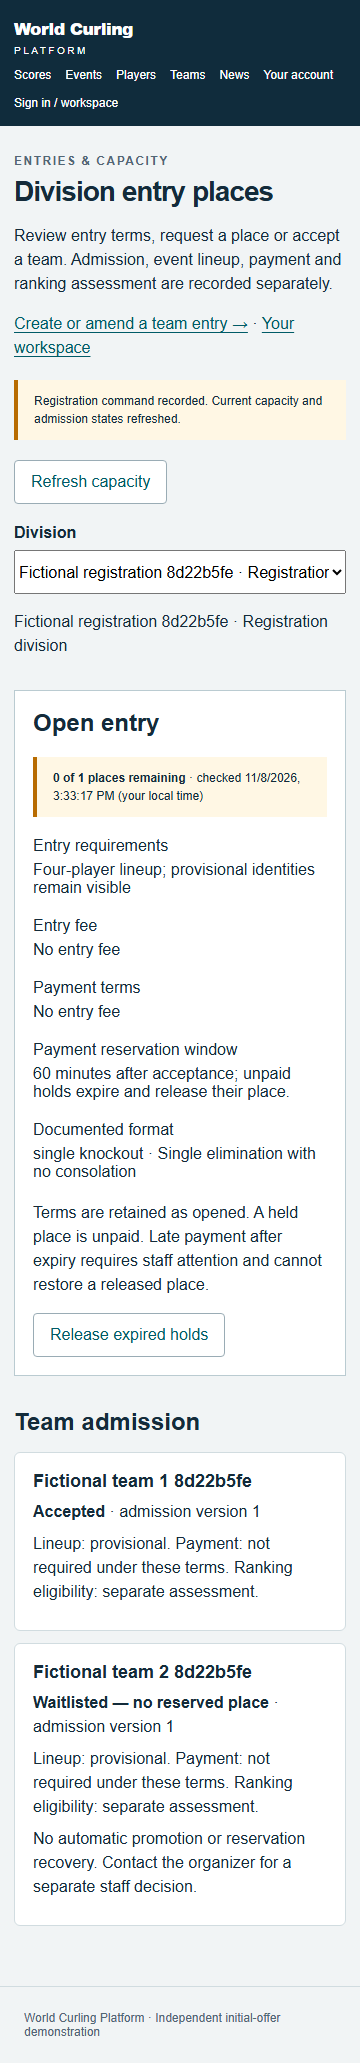
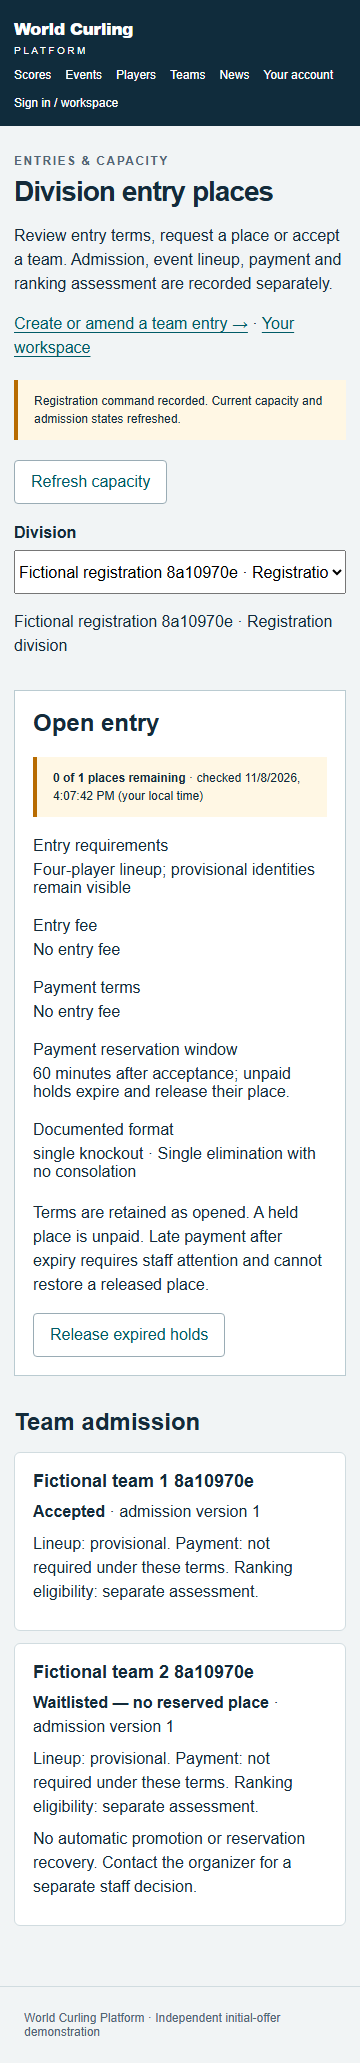
verify(WCP-009): finish accepted draw union with scoped evidence

diff --git a/tests/browser/registration-draw.spec.ts b/tests/browser/registration-draw.spec.ts
@@ -159,6 +159,12 @@ for (const [device, width, height, count] of [
         exact: true,
       }),
     ).toBeVisible();
+    if (device === "phone") {
+      await page
+        .getByRole("button", { name: "Game list", exact: true })
+        .click();
+      await expect(page.getByRole("article")).toHaveCount(5);
+    }
     await page.screenshot({
       path: `docs/verification/assets/WCP-009/${device}-configured-draw.png`,
       fullPage: true,
@@ -216,7 +222,9 @@ test("publication rechecks admission-only changes and a newly accepted peer with
   await expect(page.getByRole("main").getByRole("alert")).toContainText(
     "field admission changed",
   );
-  await expect(page.getByText(/Revision 1 · preview/)).toBeVisible();
+  await expect(
+    page.getByText(/^Revision 1 · preview\. Template/),
+  ).toBeVisible();
   await pool.query(
     "UPDATE event_entry SET admission_state='accepted',admission_version=admission_version+1 WHERE id=$1",
     [f.entries[0]],
@@ -252,5 +260,7 @@ test("publication rechecks admission-only changes and a newly accepted peer with
   await expect(page.getByRole("main").getByRole("alert")).toContainText(
     "complete current accepted field",
   );
-  await expect(page.getByText(/Revision 1 · preview/)).toBeVisible();
+  await expect(
+    page.getByText(/^Revision 1 · preview\. Template/),
+  ).toBeVisible();
 });

diff --git a/docs/verification/WCP-009.md b/docs/verification/WCP-009.md
@@ -1,8 +1,10 @@
-# WCP-009 verification — phase-one capacity candidate
+# WCP-009 verification — capacity and accepted draw-union candidate
 
 Assigned worktree `C:/Users/brthi/Projects/world-curling-platform-2/.worktrees/WCP-009`, branch `ticket/WCP-009`, based on and merged with `aaf657c`. Tracker closure remains the coordinator's responsibility. Applied implement-spec and the upstream TDD skill using the already-agreed domain, real PostgreSQL/HTTP and browser seams; read installed Next 16.4.5 route-handler/client component guides before framework code.
 
-**Current phase-one result:** capacity/terms/admission candidate is ready for independent review. Domain57/57; full production API71/71 before the later identity guard, affected post-guard API26/26 plus final current registration API9/9; complete production browser59/63 followed by all10 affected registration/representation cases passing after the four identified failures were fixed. Final production build, explicit typecheck and worker probe pass. These scopes are recorded separately below; no full post-fix browser pass is claimed. Overall WCP-009 remains open until review and the required accepted WCP-019 combined contract are verified. The coordinator explicitly requested this phase-one handoff while WCP-019 independent acceptance is pending.
+**Current handoff result:** the accepted WCP-019 combined contract is implemented and verified. Complete merged domain64/64; affected real PostgreSQL/API43/43; combined production browser16/17 followed by the corrected full stale-admission/new-peer case1/1. The one browser failure was an ambiguous current-revision selector, now scoped explicitly without weakening the expected rejection/state. Final types, production build and real worker probe pass. Fresh combined19 migrations/repeat seed/59-table hashes match. No full post-fix browser pass is claimed; exact scopes and retained reports follow. Overall closure remains the coordinator's independent review/tracker action.
+
+**Retained phase-one result:** domain57/57; full production API71/71 before the later identity guard, affected post-guard API26/26 plus final current registration API9/9; complete production browser59/63 followed by all10 affected registration/representation cases passing after the four identified failures were fixed. These historical scopes remain unchanged and are not relabelled as combined-source full-suite results.
 
 Implemented complete immutable opening terms, open/reviewed/invited admission, zero-fee acceptance, bounded unpaid holds, effective and materialized expiry, capacity serialization, actor-bound tab command recovery, exact receipts with current authorization, and public admission labels. [API/locking contract](../api/registration.md).
 
@@ -89,3 +91,32 @@ Coordinator formally accepted WCP-019 at integration `10890b19865cdc85b36db6d4e3
 - Combined `npm run build` passed; log `.runtime/wcp009/build-union.log`.
 - First new browser attempt in development repeatedly reloaded `/admin/draws` while source remained frozen, leaving the loading state. Interrupted after three positive cases failed, preserved available artifacts at `.runtime/wcp009/browser-union-dev-interrupted/`; not acceptance. No product-source change was made for that observation.
 - Initial production union browser **3/5 passed** in18.6s: all three responsive configured positive cases passed; two negative cases observed the correct server errors but the global `getByRole('alert')` matched both the application error and Next's empty route announcer. Scoped those assertions to the application main region, retaining the exact expected messages. Full failed production report remains `.runtime/wcp009/browser-union-focused/`. A corrected production run and broader affected checks remain pending at this checkpoint.
+
+## Final accepted-union verification and handoff
+
+Coherent union code checkpoint `52814168d9d1a8247768150a6a8e8a506850a790` contains all application changes tested below. Subsequent changes are browser-only selectors/mobile-list verification, evidence and safe screenshots. Accepted integration `10890b1` remains the current base; no pending WCP-020/033 implementation or migrations were imported. The generic extension contract was sent to WCP-020; its later accepted engine can reuse `validateRegistrationDrawField` with its own family.
+
+| Scope | Actual command and result |
+| --- | --- |
+| Incremental ledger | Applied accepted0022 to the owned existing `wcp009` after its0023. All19 checked-in migration SHA256 values now match that database's ledger. An auxiliary harness invocation initially omitted `DATABASE_URL` (the helper does not load dotenv) and failed authentication before any query; reran with explicit owned `postgresql://wcp_local@127.0.0.1:55431/wcp009`, verified19 hashes. No unrelated database was read or changed. The current mutable-table diagnostic manifest is archived separately as `incremental-union-manifest.json`; it is not the fresh/repeat-seed proof. |
[1 lines of base64/hex data omitted]
+| Complete domain | `npm test`: **64/64 passed**,3.48s. Includes the accepted draw identity/profile domain tests and four registration domain cases. `domain-union.log`. Earlier coverage percentages describe phase-one source only; no new coverage percentage is inferred. |
+| Affected PostgreSQL/API | `node --import tsx --test --test-concurrency=1 tests/registration-draw-api.test.ts tests/registration-api.test.ts tests/draws-api.test.ts tests/finalization-api.test.ts tests/entries.api.test.ts tests/entries-concurrency-api.test.ts tests/scheduling-api.test.ts`: **43/43 passed**,140.69s. All ten finalization cases, both actual entry/finalizer lock orders, existing nullable-required-game checks, known-team guards, legacy selection, configured full-field/family/admission-only changes, capacity/expiry and current authority/receipts remain exercised. `api-union-affected.log`. |
+| Production build | `npm run build`: passed with accepted nullable games and configured-field guards. `build-union.log`. No application source changed after this build. |
+| Current types/worker | `npm run typecheck; npm run worker:probe`: passed current production-generated types and real pg-boss completion/output, log `types-worker-union.log`. After final browser selector changes, explicit `npm run typecheck` passed again, `typecheck-union-final.log`. |
+| Broader production browser | `npx playwright test tests/browser/registration-draw.spec.ts tests/browser/draws.spec.ts tests/browser/registration.spec.ts tests/browser/finalization.spec.ts --output=<retained>/test-results`: **16/17 passed**,2.5m. All accepted draw/finalization workflows, three configured positive viewport cases, family/omitted-peer errors and all five registration cases passed. The stale case correctly observed rejection but its revision assertion matched the current paragraph and immutable history list. Report remains intact at `browser-union-affected/`. |
+| Corrected stale browser | Changed only that assertion to the explicit current paragraph prefix `^Revision 1 · preview\. Template`; retained both expected admission/full-field errors and unchanged revision checks. `npx playwright test tests/browser/registration-draw.spec.ts --grep 'publication rechecks admission-only changes' --output=<retained>/test-results`: **1/1 passed**,3.9s, covering both admission loss and a newly accepted peer without rewriting the preview. `browser-union-stale-final/`. This focused result is not claimed as a full17-case rerun. |
+
+All report/log paths above are under the durable ignored root `C:/Users/brthi/Projects/world-curling-platform-2/.runtime/wcp009/`. API/browser fixture suites were sequential; source stayed frozen during each suite. Actual authentication retry windows were respected. Retained full HTML hashes:
+
[3 lines of base64/hex data omitted]
+
+Actually opened/inspected the three new configured public screenshots after the broader production run. Phone uses the readable five-game list with two explicit structural byes, no invented played win, and unknown schedule text; tablet/desktop retain the accepted scrollable bracket. Positive configured cases check keyboard seed traversal, axe0, no page/console/server errors and no page-level overflow. Registration screenshots were regenerated by the same affected run. All committed images are fictional public/operations data; authentication traces and raw reports remain ignored.
+
+- [Configured six-entry phone game list](assets/WCP-009/phone-configured-draw.png)
+- [Configured six-entry tablet bracket](assets/WCP-009/tablet-configured-draw.png)
+- [Configured eight-entry desktop bracket](assets/WCP-009/desktop-configured-draw.png)
+
+The required combined contract has no outstanding implementation work at this handoff. Independent acceptance/merge/closure remains pending with the coordinator. The earlier development reload-loop observation is retained as a development-runtime limitation; production browser behavior passed the described checks, but no cause or fix for that dev-only observation is claimed. Financial/provider, withdrawal/replacement, automatic promotion and exceptional recovery limitations above remain in their separate slices. No future format engine, provider settlement, lineage inference or played-participant rewrite was introduced.
